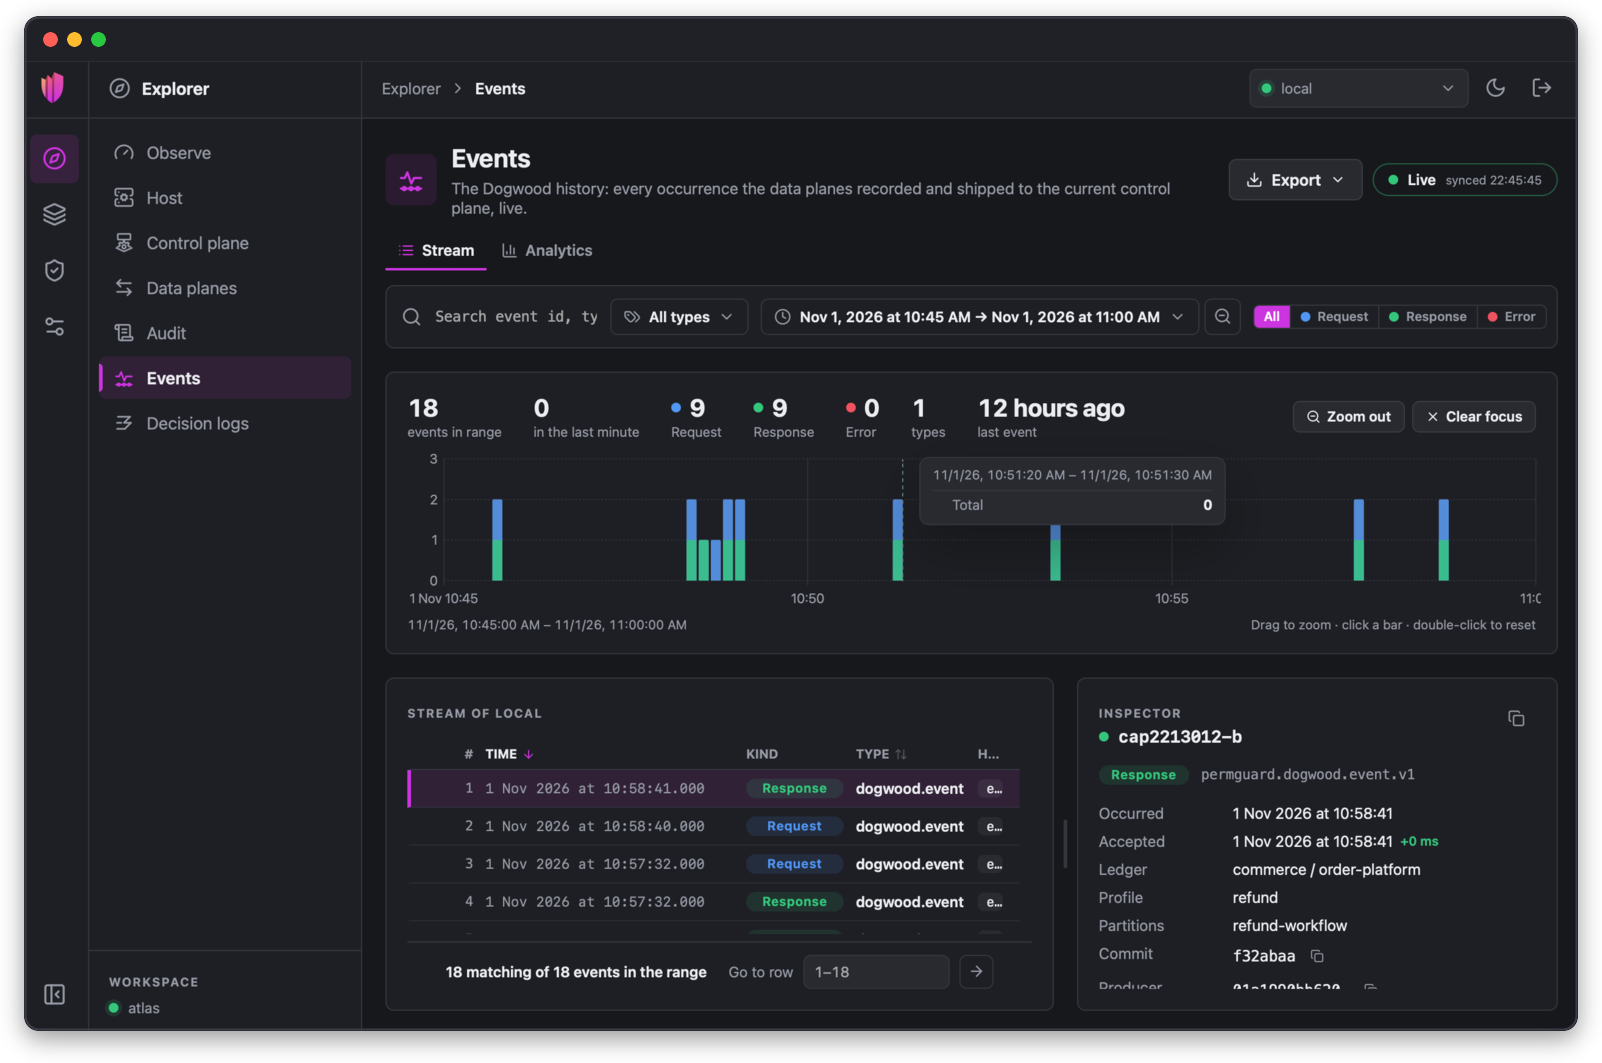
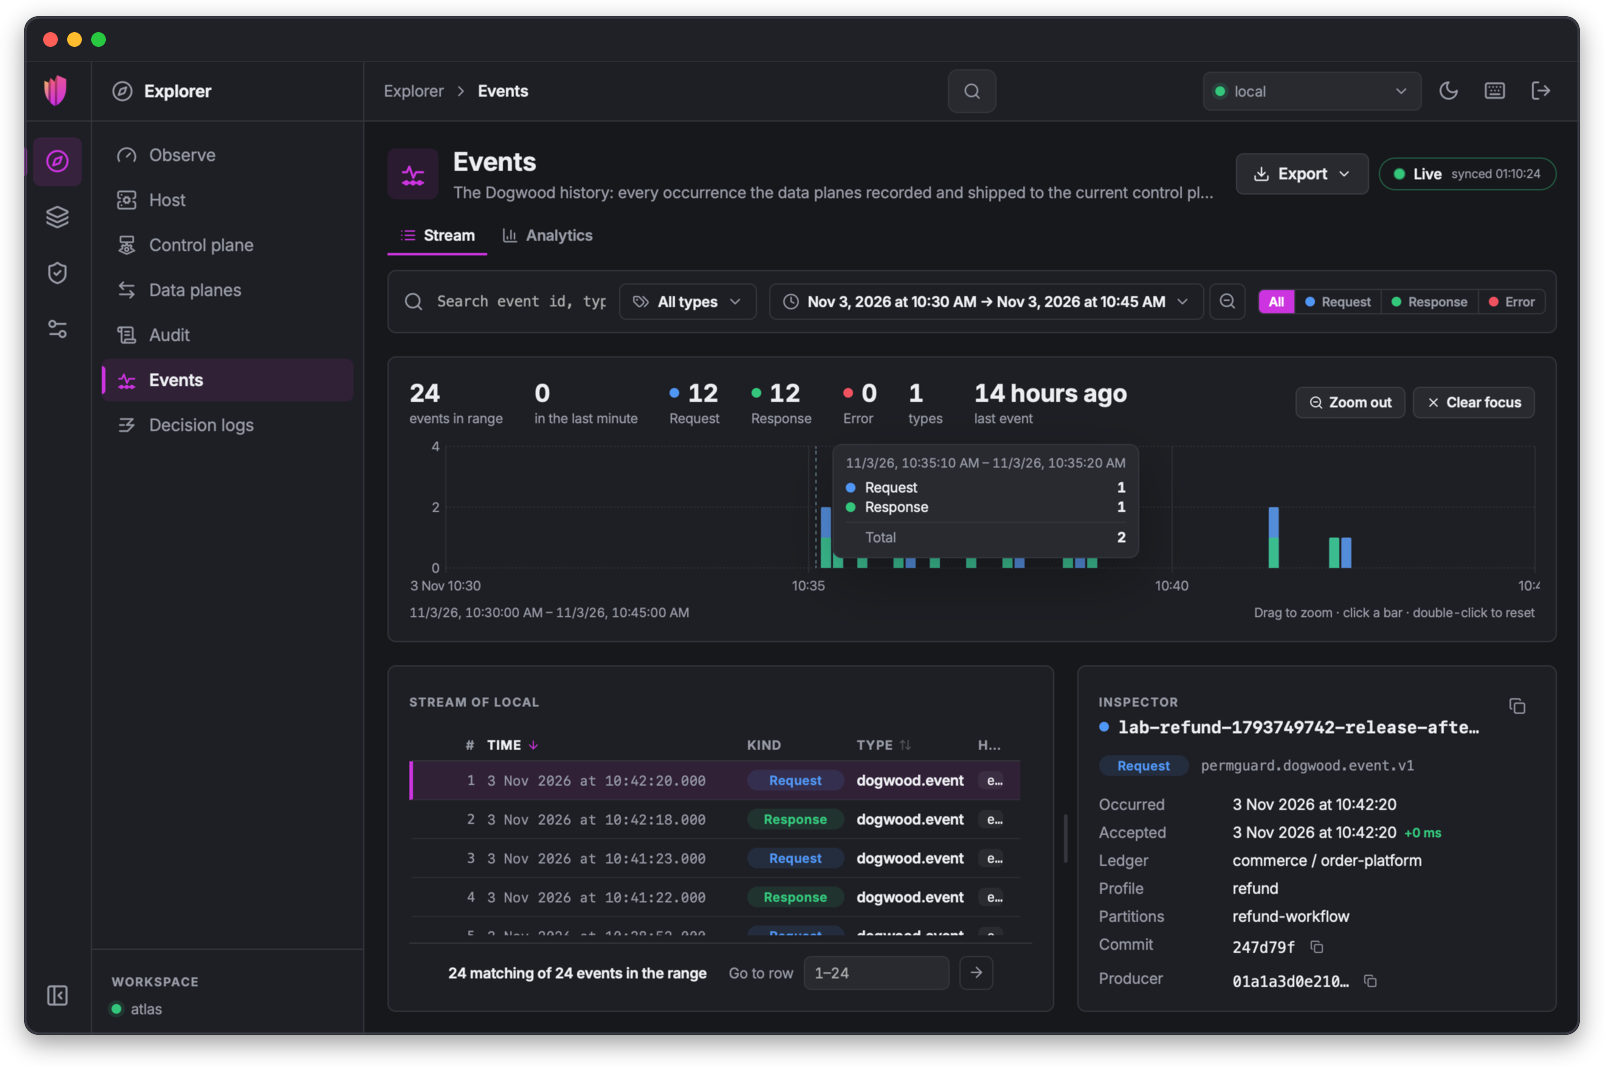
refactor: 'permguard admin ux bug fixing.'

diff --git a/README.md b/README.md
@@ -17,7 +17,7 @@ SPDX-License-Identifier: LicenseRef-Permguard-Admin-Binary
 </p>
 
 <p align="center">
-  <img src="assets/diagrams/deployment.png" alt="The deployment of a Permguard server, drawn by Permguard Admin from what the server publishes: Permguard Admin reaches the Host listener on 5443 over HTTP; inside the Server Host, the Control Plane on 6443 mirrors policies to the Data Plane on 7443, which ships decisions and events back; the Data Plane serves Cedar, Dogwood and Rego; below, the listeners control-http-grpc, data-http-grpc, host-api and telemetry." width="820">
+  <img src="assets/diagrams/deployment.png" alt="The deployment of a Permguard server, drawn by Permguard Admin from what the server publishes: Permguard Admin reaches the Host listener over HTTP; inside the Server Host, the Control Plane mirrors policies to the Data Plane, which ships decisions and events back; the Data Plane serves Cedar, Dogwood and Rego; below, the listeners control-http-grpc, data-http-grpc, host-api and telemetry." width="820">
 </p>
 
 <p align="center"><sub>Your server, drawn live: every plane, port, listener and flow, and how policies, decisions and events move between them.</sub></p>
@@ -37,10 +37,10 @@ SPDX-License-Identifier: LicenseRef-Permguard-Admin-Binary
 
 Permguard Admin is for the people who administer [Permguard](https://github.com/permguard/permguard).
 Connect it to your Control Planes and manage them from one window: the server that hosts them, the ledgers and policies they serve, the events and decisions they record.
-No terminal, no curl, no guessing.
+No curl, no guessing: and when you want the command line, every ledger has its own, sandboxed.
 
 <p align="center">
-  <img src="assets/screens/observe.png" alt="The Observe page: the server of the current control plane at 127.0.0.1:5443, active, over HTTP with mutual TLS, with its version, its round trip, a small topology of the Host, the Control Plane and the Data Plane, and a map of the surfaces to open." width="820">
+  <img src="assets/screens/observe.png" alt="The Observe page: the server of the current control plane, active, over HTTP with mutual TLS, with its version, its round trip, a small topology of the Host, the Control Plane and the Data Plane, and a map of the surfaces to open." width="820">
 </p>
 
 ## What you can do
@@ -73,7 +73,7 @@ Open any event to see when it happened, under which policies and commit, and its
 <summary><b>Zoom into a spike</b></summary>
 
 <p align="center">
-  <img src="assets/screens/events-zoom.png" alt="The Events page zoomed by clicking a bar of the timeline to fifteen minutes: 18 events, with Zoom out and Clear focus; the pointer over one bar shows its period and its counts by kind, and the stream lists only the events of that period." width="820">
+  <img src="assets/screens/events-zoom.png" alt="The Events page zoomed by clicking a bar of the timeline to fifteen minutes: 24 events, with Zoom out and Clear focus; the pointer over one bar shows its period and its counts by kind, and the stream lists only the events of that period." width="820">
 </p>
 
 </details>
@@ -84,7 +84,16 @@ Every permit and every deny your data plane records, in one list.
 Search by subject, action, resource or policy, filter by time and outcome, and open any decision to see the policies and the commit behind it.
 
 <p align="center">
-  <img src="assets/screens/decision-logs.png" alt="The Decision logs page over the last 24 hours: 12,828 decisions, 9,015 permits and 3,813 denies, a p50 of 251 µs and a p95 of 570 µs, on a timeline of the day; below, the records of the control plane local, newest first, each with its time, ledger, outcome, subject, action, resource, policies and latency; the first record is open as JSON." width="820">
+  <img src="assets/screens/decision-logs.png" alt="The Decision logs page over the last 24 hours: 10,313 decisions, 7,217 permits and 3,096 denies, a p50 of 229 µs and a p95 of 566 µs, on a timeline of the day; below, the records of the control plane local, newest first, each with its time, ledger, outcome, subject, action, resource, policies and latency; the first record is open as JSON." width="820">
+</p>
+
+### Every zone and ledger, in one place
+
+A Control Plane holds zones, and a zone holds ledgers.
+See them as a table or a map, filtered by what you have cloned and what is still remote, and open any of them in one click.
+
+<p align="center">
+  <img src="assets/screens/zones.png" alt="The Zones tab of the Control plane page: the zone commerce with its four ledgers, customer-care, order-platform, payments-gateway and warehouse-fleet, one local and three remote; order-platform is selected, with its identity, server and workspace properties, and beside them the JSON the server answered for it." width="820">
 </p>
 
 ### Keep your ledgers at hand
@@ -93,7 +102,7 @@ The Sync Center lists every ledger your control plane serves.
 Clone the ones you care about in one click, and Permguard Admin tells you the moment a new version is published, so you pull it when you are ready.
 
 <p align="center">
-  <img src="assets/screens/sync-center.png" alt="The Sync Center of the control plane local: commerce/order-platform is cloned and up to date, with Open; commerce/customer-care, commerce/payments-gateway and commerce/warehouse-fleet are remote, each with Clone." width="820">
+  <img src="assets/screens/sync-center.png" alt="The Sync Center of the control plane local, with its search and state filters: commerce/order-platform is cloned and up to date, with Pull and Open; commerce/customer-care, commerce/payments-gateway and commerce/warehouse-fleet are remote, each with Clone." width="820">
 </p>
 
 ### Read your policies as diagrams
@@ -104,20 +113,41 @@ Open a manifest or a schema and switch it to Visual: profiles, partitions and ru
   <img src="assets/screens/ledger-visual.png" alt="The manifest of the order-platform ledger opened in Visual: profiles gateway, operations and refund, partitions order-operations, payment-api and refund-workflow, runtimes Cedar, Rego and Dogwood; the refund-workflow partition is selected and its facts name its kind, its fields and the runtime it points to." width="820">
 </p>
 
+### Write your policies, and publish them
+
+Open a ledger and edit its policies in place, in Cedar, Rego or Dogwood: every file saves itself and is validated as you go, its problems underlined where they are.
+What you changed shows in the tree, added, modified or removed, and *Push* publishes it to your Control Plane with a message.
+
+Every ledger has its own terminal, too, as your code editor has one.
+It is a sandbox: the Permguard command line built into the application, working on this ledger's folder and through this Control Plane's connection, and nothing else.
+`validate`, `plan`, `apply`, `history` and their companions run as you know them; a few file commands, `ls`, `cat`, `touch`, `mkdir` and `rm`, never leave the ledger's folder, and no other program on your computer is ever started.
+
+<p align="center">
+  <img src="assets/screens/terminal.png" alt="An open ledger with local changes: disputed-refund-hold.cedar added and merchant-support-readers.cedar modified, marked A and M in the tree, the folder counting +1 and ~1, the version reading latest + changes and Push enabled; below, the terminal, a sandbox on this ledger, where permguard validate and permguard plan ran: one policy to create, one to update." width="820">
+</p>
+
 ### Read every change to your policies
 
 Open a ledger to browse its policies, and its history to see who changed what, when, and why.
-Every commit shows its diff, line by line.
+Every commit shows its diff, line by line, and every file has its own *History*, any two versions compared, and its *Blame*: who last wrote each line.
 
 <p align="center">
   <img src="assets/screens/ledger-commit.png" alt="The commit refunds: four eyes from EUR 250, down from EUR 500, in the ledger order-platform: one file changed, order-operations/high-value-refund-four-eyes.cedar, shown as a unified diff that lowers the threshold from 50000 to 25000 cents." width="820">
 </p>
 
+<p align="center">
+  <img src="assets/screens/ledger-history.png" alt="The History of merchant-finance-refunds.cedar: three versions, by carla.ricci, luca.bianchi and the lab, each with its message, author and short digest; the newest is open as a split diff that rewrites the opening comment." width="820">
+</p>
+
 <details>
-<summary><b>Browse the policies of a ledger</b></summary>
+<summary><b>Who wrote each line, and the files of a ledger</b></summary>
 
 <p align="center">
-  <img src="assets/screens/ledger-files.png" alt="The Files tab of order-platform: a tree with manifest.yml and the partitions order-operations, payment-api and refund-workflow, with their Cedar, Rego and Dogwood files and schemas; merchant-finance-refunds.cedar is open in the code viewer, tagged as a policy." width="820">
+  <img src="assets/screens/ledger-blame.png" alt="The Blame of merchant-finance-refunds.cedar: each run of lines under the commit that last wrote it, carla.ricci for the opening comment, luca.bianchi for the cap at EUR 2,000, the lab's first publication for the rest." width="820">
+</p>
+
+<p align="center">
+  <img src="assets/screens/ledger-files.png" alt="The Files tab of order-platform: a tree with manifest.yml and the partitions order-operations, payment-api and refund-workflow, with their Cedar, Rego and Dogwood files and schemas; merchant-finance-refunds.cedar is open in the editor, with its History and Blame readings beside Code." width="820">
 </p>
 
 </details>
@@ -128,15 +158,15 @@ Open a ledger's *Objects*: every commit, tree and blob it holds, as a list or a 
 Pick one and read it three ways: decoded from its canonical CBOR, as raw bytes, or as the policy it contains.
 
 <p align="center">
-  <img src="assets/screens/objects.png" alt="The Objects tab of order-platform: 19 objects, 2 commits, 6 trees and 11 blobs, listed with their ids and paths; the blob of order-operations/merchant-finance-refunds.cedar is selected, with its digest recomputed from its bytes, its canonical CBOR encoding, its media type, the file that stores it and the tree that names it; on the right, its CBOR view." width="820">
+  <img src="assets/screens/objects.png" alt="The Objects tab of order-platform: 27 objects, 4 commits, 10 trees and 13 blobs, listed with their ids and paths; the blob of order-operations/merchant-finance-refunds.cedar is selected, with its digest recomputed from its bytes, its canonical CBOR encoding, its media type, the file that stores it and the tree that names it; on the right, its CBOR view." width="820">
 </p>
 
 <p align="center">
-  <img src="assets/screens/objects-views.png" alt="The three views of the same blob side by side. CBOR: a map of three pairs, kind blob, media_type application/vnd.permguard.policy.cedar and data of 482 bytes, each with its offset and size. Bytes: the 530 bytes of the object in hex, with their text beside. Content: the Cedar policy merchant-finance-refunds it holds." width="820">
+  <img src="assets/screens/objects-views.png" alt="The three views of the same blob side by side. CBOR: a map of three pairs, kind blob, media_type application/vnd.permguard.policy.cedar and data of 526 bytes, each with its offset and size. Bytes: the 574 bytes of the object in hex, with their text beside. Content: the Cedar policy merchant-finance-refunds it holds." width="820">
 </p>
 
 <p align="center">
-  <img src="assets/screens/objects-graph.png" alt="The object store of order-platform as a graph: the two commits name their trees, the trees name their sub-trees and blobs; the blob of merchant-finance-refunds.cedar is selected, beside its facts and its content." width="820">
+  <img src="assets/screens/objects-graph.png" alt="The object store of order-platform as a graph: the four commits name their trees, the trees name their sub-trees and blobs; the blob of merchant-finance-refunds.cedar is selected, beside its facts and its content." width="820">
 </p>
 
 ### Ask before you ship
@@ -156,14 +186,14 @@ Every answer is checked against the decision and the policies it should get, so 
 The playground ships three suites to start from.
 
 <p align="center">
-  <img src="assets/screens/benchmarks.png" alt="The Benchmarks page after a run of the Refund desk suite against commerce/order-platform: 2,500 calls in 25 rounds with 2 in flight, 50 calls per second, latency p95 2.48 ms with p50 1.19 ms, no errors, no unexpected decisions, a 0.0% failure rate and the verdict Passed; below, the calls per second and the response time over the run." width="820">
+  <img src="assets/screens/benchmarks.png" alt="The Benchmarks page after a run of the Refund desk suite against commerce/order-platform: 2,500 calls in 25 rounds with 8 in flight, 51 calls per second, latency p95 5.29 ms with p50 2.48 ms, no errors, no unexpected decisions, a 0.0% failure rate and the verdict Passed; below, the calls per second and the response time over the run." width="820">
 </p>
 
 <details>
 <summary><b>Every request of the suite, with its own figures</b></summary>
 
 <p align="center">
-  <img src="assets/screens/benchmarks-mix.png" alt="The Mix tab of the same run: each of the eight requests of the suite with its profile, weight, the decision and the policy it expects, the calls made, permits, denies, errors, unexpected decisions, and its own p50 and p95, about 1.2 ms and 2.4 to 3 ms." width="820">
+  <img src="assets/screens/benchmarks-mix.png" alt="The Mix tab of the same run: each of the eight requests of the suite with its profile, weight, the decision and the policy it expects, the calls made, permits, denies, errors, unexpected decisions, and its own p50 and p95, about 2.5 ms and 4.8 to 5.6 ms." width="820">
 </p>
 
 </details>
@@ -177,13 +207,22 @@ Switch between them from the top bar; a dot tells you at a glance which ones are
   <img src="assets/screens/control-planes.png" alt="The Control planes page: the local all-in-one lab, running, with its ports and sample data; below, the control plane local, active, current and locked because it has a clone, over HTTP with mutual TLS." width="820">
 </p>
 
+### Bring Permguard into your code
+
+The SDKs page shows a developer what to install and what to change: the six SDKs, Go, Java, .NET, Node.js, Python and Rust, and the same check written in the application and then asked of Permguard, side by side.
+
+<p align="center">
+  <img src="assets/screens/sdks.png" alt="The SDKs page: three steps, install the SDK, point it at a PDP, replace the check; the six languages, Go, Java, .NET, Node.js, Python and Rust; and the same check in Go twice, written in the application on the left and asked of Permguard on the right, with the command that installs the SDK." width="820">
+</p>
+
 ### Make it yours
 
 Light, dark, or the one your system uses.
 English, Italiano, Español and Français.
+And when a new version is out, Permguard Admin tells you, and updates itself in one click, its download checked against the release's signature.
 
 <p align="center">
-  <img src="assets/screens/themes.png" alt="The Observe page in dark and light, side by side." width="820">
+  <img src="assets/screens/themes.png" alt="The Observe page split along a diagonal: dark on the left, light on the right." width="820">
 </p>
 
 ## Try a real policy set
@@ -301,7 +340,7 @@ If your system asks for confirmation the first time you open the application, co
 ## Before you start
 
 Permguard Admin needs nothing else installed: it carries the Permguard command line inside it, the same code, at the version it was built with.
-The command line stays useful in a terminal, and installs on its own; see the [Permguard documentation](https://docs.permguard.com/).
+Inside the application it is also the terminal of every ledger; to use the command line in your own shell, install it on its own, see the [Permguard documentation](https://docs.permguard.com/).
 Start Permguard Admin, choose a folder for your workspace, and connect it to a Permguard server: on your own computer, it finds the local one by itself.
 
 <p align="center">
